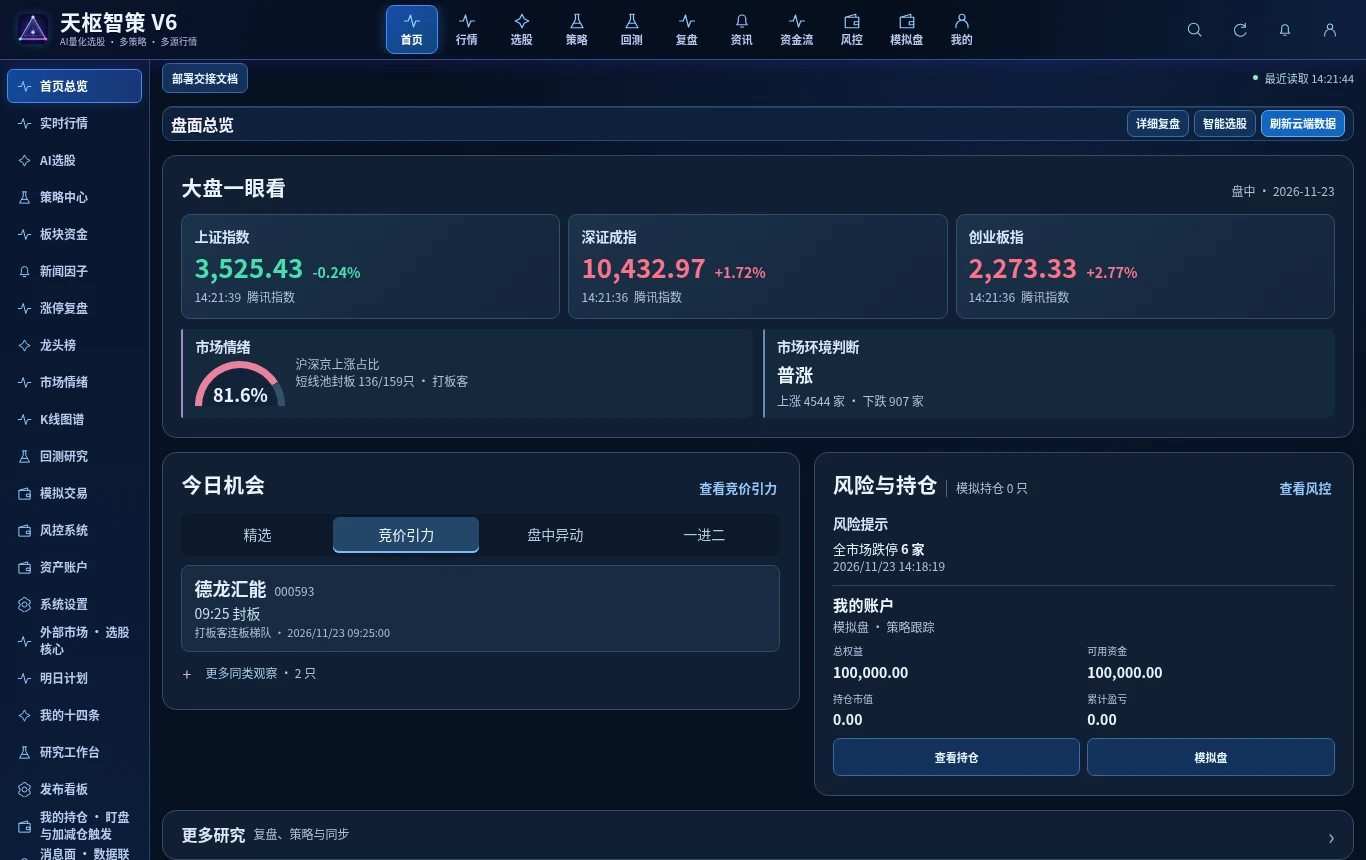
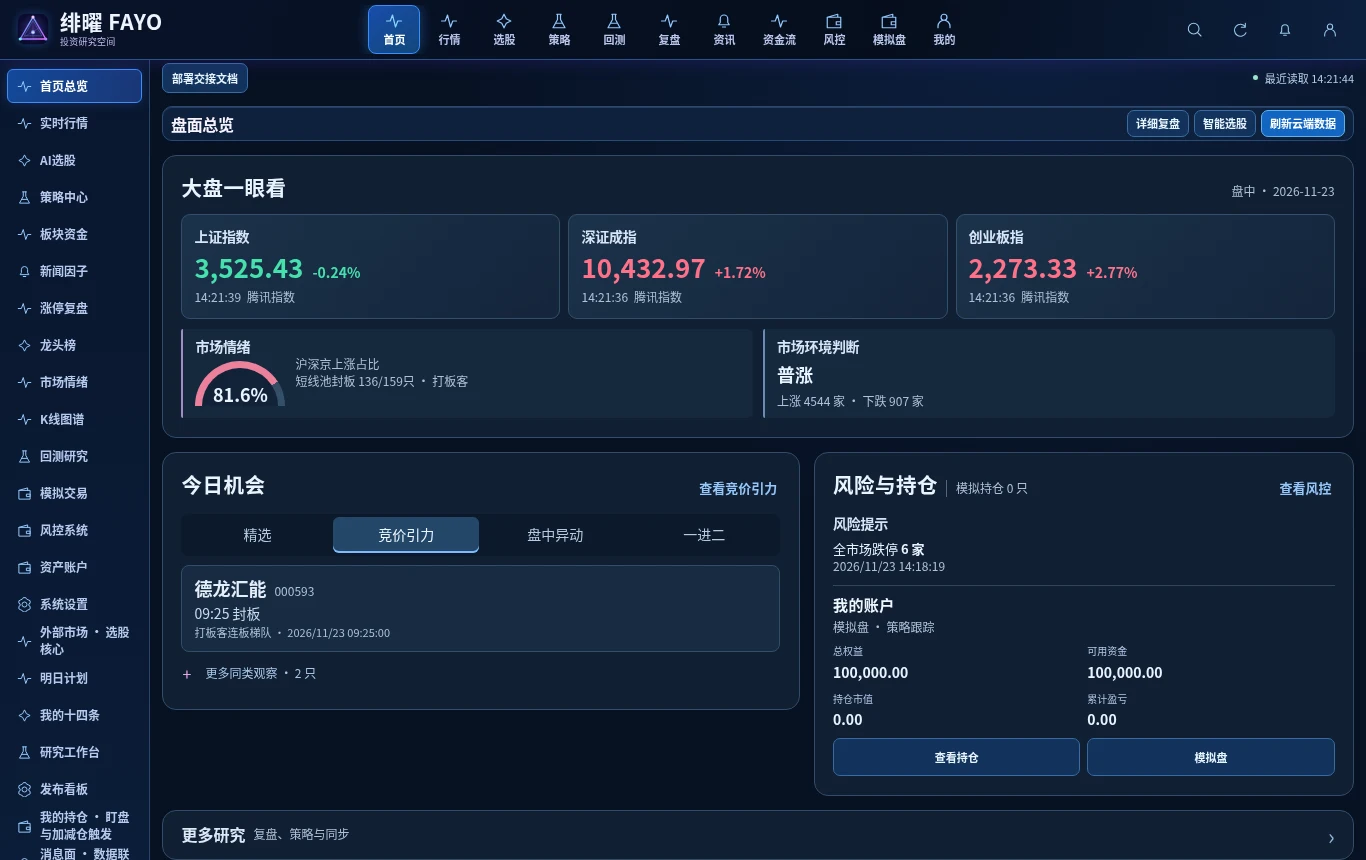
修复无报告时的首页板块交易日并统一绯曜运行时品牌

Changed region(s): [[0.246, 0.0, 0.7072, 0.0605], [0.0307, 0.0, 0.1537, 0.0605]]

diff --git a/V6_BO/public/nova/terminal-workbench.js b/V6_BO/public/nova/terminal-workbench.js
@@ -50,26 +50,60 @@ function referenceLinks(items,ctx,className) {
  return h('nav',{class:className,'aria-label':'常用研究入口'},items.map(([label,view,sub,symbol])=>
   button(h('span',{},icon(symbol),h('span',{},label)),()=>ctx.navigate(view,sub),'secondary')));
 }
+// The reference day selects a homepage period. A panel must still prove its own data day.
+function firstDay(...values){
+ for(const value of values){const day=reviewDate(value);if(day)return day;}
+ return null;
+}
+function poolSourceDay(state){
+ if(state.ztDayProbed===false)return null;
+ const nested=reviewDate(state.ztPool?.day),field=reviewDate(state.snapshotFieldDays?.ztPool);
+ if(nested&&field&&nested!==field)return null;
+ return nested||field||reviewDate(state.ztDay);
+}
+function homeReferenceDay(state){
+ return firstDay(state.review?.date,poolSourceDay(state),state.snapshotFieldDays?.dashboard,state.dashboard?.snapshotDay,state.snapshotDay);
+}
 function renderPanels(state,summary,reviewDay,ctx,compact) {
  const marketDay=reviewDate(state.snapshotFieldDays?.dashboard||state.dashboard?.snapshotDay||state.snapshotDay);
- const mainline=section(panelTitle('市场主线排行','pulse'),'仅按当前复盘明细的题材归组',
-  summary.groups.length?
+ const roles=Array.isArray(state.ztBySector)?state.ztBySector.filter(g=>g&&typeof g.sector==='string'&&g.sector.trim()):[];
+ const roleDay=firstDay(state.snapshotFieldDays?.ztBySector,state.ztDayProbed===false?null:state.ztDay);
+ let roleRows=reviewDay&&roleDay===reviewDay?roles:[];
+ let categorySource='按源端题材与角色分类',fromPool=false;
+ if(compact&&!roleRows.length&&reviewDay&&poolSourceDay(state)===reviewDay){
+  const digest=Array.isArray(state.ztPool?.top);
+  const entries=digest?state.ztPool.top:Array.isArray(state.ztPool)?state.ztPool:[];
+  const rows=entries.filter(r=>r&&[r.tradeDate,r.sourceTradeDate,r.poolDay,r.poolEvidence?.tradeDate]
+   .every(date=>!date||reviewDate(date)===reviewDay));
+  roleRows=summarizeReview({items:rows}).groups.map(g=>({sector:g.name,count:g.count,stocks:g.items}));
+  fromPool=roleRows.length>0;
+  if(fromPool)categorySource=digest?'速览涨停池节选':'原始涨停池明细';
+ }
+ let groups=compact&&!reviewDate(state.review?.date)?[]:summary.groups;
+ let groupSource='仅按当前复盘明细的题材归组';
+ if(compact&&!groups.length&&roleRows.length){
+  groups=roleRows.filter(g=>g.sector&&Number.isSafeInteger(g.count)&&g.count>0).map(g=>({
+   name:g.sector,count:g.count,highest:Math.max(0,...(g.stocks||[]).filter(r=>!r.strong)
+    .map(r=>r.lb??r.limitUpCount).filter(n=>Number.isSafeInteger(n)&&n>0))
+  })).sort((a,b)=>b.count-a.count||b.highest-a.highest||a.name.localeCompare(b.name,'zh-CN'));
+  groupSource=fromPool?categorySource:'同日涨停板块分类';
+ }
+ const mainline=section(panelTitle('市场主线排行','pulse'),[groupSource,reviewDay].filter(Boolean).join(' · '),
+  groups.length?
    h('div',{class:'fy-terminal-lines'},
     h('div',{class:'fy-reference-rank-head','aria-hidden':'true'},['排名','题材','涨停样本','最高板'].map(label=>h('small',{},label))),
-    summary.groups.slice(0,5).map((g,i)=>
+    groups.slice(0,5).map((g,i)=>
     h('div',{class:'fy-terminal-line fy-reference-ranked'},h('b',{class:'fy-reference-rank'},i+1),
      h('strong',{},g.name),h('span',{},g.count+' 只'),h('small',{},g.highest?g.highest+' 板':'高度未知')))):
    empty('缺少复盘板块证据','保留未知，不根据股票名称猜测所属题材。'),
   moduleButton('查看完整主线','pulse','review-details',ctx));
- const roles=Array.isArray(state.ztBySector)?state.ztBySector:[];
- const roleDay=reviewDate(state.snapshotFieldDays?.ztBySector||state.ztDay);
- const roleRows=reviewDay&&roleDay===reviewDay?roles.slice(0,5):[];
- const roleItems=roleRows.map(group=>{
-  const rolesByCode=sectorRoles(state,reviewDay,group.sector);
+ const roleItems=roleRows.slice(0,5).map(group=>{
+  const rolesByCode=fromPool?null:sectorRoles(state,reviewDay,group.sector);
   const members=(Array.isArray(group.stocks)?group.stocks:[]).slice(0,4).map(row=>{
-   const info=rolesByCode.get(row.code)||recordedRole(row,group.sector);
+   const info=rolesByCode?.get(row.code)||recordedRole(row,group.sector);
    const attrs={class:'fy-terminal-chip',title:info?.evidence};
-   const parts=[row.name||row.code,roleBadge(info)||((row.lb??row.level)>0?h('small',{},(row.lb??row.level)+'板'):null)];
+   const height=row.lb??row.level??row.limitUpCount;
+   const parts=[row.name||row.code,roleBadge(info)||(height>0?h('small',{},height+'板'):null)];
    return row.code?h('button',{...attrs,type:'button',onClick:()=>ctx.selectStock(row.code,{...row,sector:group.sector,poolDay:reviewDay})},...parts):h('span',attrs,...parts);
   });
   return h('div',{class:'fy-terminal-sector'},
@@ -79,9 +113,9 @@ function renderPanels(state,summary,reviewDay,ctx,compact) {
    h('div',{class:'fy-terminal-chips'},members));
  });
  const board=section(panelTitle('涨停板 · 板块分类','spark'),
-  '按源端题材与角色分类',
+  [categorySource,roleItems.length?reviewDay:roleDay].filter(Boolean).join(' · '),
   roleItems.length?h('div',{class:'fy-terminal-lines'},
-   h('div',{class:'fy-reference-role-legend','aria-label':'题材角色'},[['leader','龙头'],['deputy','龙二'],['mid','中军'],['follow','跟风']].map(([role,label])=>
+   fromPool?null:h('div',{class:'fy-reference-role-legend','aria-label':'题材角色'},[['leader','龙头'],['deputy','龙二'],['mid','中军'],['follow','跟风']].map(([role,label])=>
     roleBadge({key:role,label,evidence:'板块角色'}))),roleItems):
    empty('没有可核验的同日板块分类','本次复盘 '+(reviewDay||'日期未知')+
     '，板块分类 '+(roleDay||'日期未知')+'；日期不一致时不混用。'),
@@ -114,7 +148,7 @@ function renderPanels(state,summary,reviewDay,ctx,compact) {
     empty('尚无单位明确的板块资金数据','原资金模块可能有其他单位或缺失项，请核验数据来源与字段。'),
   moduleButton('查看资金证据','pulse','sectors',ctx));
  return h('div',{class:'fy-terminal-panels'},
-  compact&&!summary.groups.length?homeEmpty('市场主线','当期无已核对的题材',mainline):mainline,
+  compact&&!groups.length?homeEmpty('市场主线','当期无已核对的题材',mainline):mainline,
   compact&&!roleItems.length?homeEmpty('涨停板分类','当期无同日板块记录',board):board,
   compact&&!capital.length?homeEmpty('板块资金排行','当期无同日金额记录',flows):flows);
 }
@@ -270,7 +304,7 @@ export function renderTerminalOverview(ctx,{reviewOnly=false}={}) {
  signalPanel.classList.add('fy-reference-signal');
  let flowMode='in';
  const flowButtons=['in','out'].map((mode,i)=>button(i===0?'资金流入榜':'资金流出榜',()=>{
-  flowMode=mode;paintFunds(ctx.state||{},reviewDate(ctx.state?.review?.date));
+  flowMode=mode;paintFunds(ctx.state||{},reviewOnly?reviewDate(ctx.state?.review?.date):homeReferenceDay(ctx.state||{}));
  },'secondary'));
  const fundsPanel=section(panelTitle('板块资金流向','assets'),'',h('div',{class:'fy-reference-flow-switch','aria-label':'资金排名方向'},flowButtons),fundsContent,
   moduleButton('查看全部资金','pulse','sectors',ctx));
@@ -355,7 +389,8 @@ export function renderTerminalOverview(ctx,{reviewOnly=false}={}) {
   // Focused elements are not replaced while a keyboard user is interacting with them.
 
   const state=ctx.state||{},review=state.review,summary=summarizeReview(review),coverage=reviewCoverage(review);
-  const day=reviewDate(review?.date),source=coverage.source,reported=valid(review?.ztN)?review.ztN:null;
+  const day=reviewDate(review?.date),referenceDay=home?homeReferenceDay(state):day;
+  const source=coverage.source,reported=valid(review?.ztN)?review.ztN:null;
   const marketDay=reviewDate(state.snapshotFieldDays?.dashboard||state.dashboard?.snapshotDay||state.snapshotDay);
   const previousOpen=!!recoveryDetails?.open;
   recoveryDetails=recoveryDisclosure(state);
@@ -365,7 +400,7 @@ export function renderTerminalOverview(ctx,{reviewOnly=false}={}) {
    h('div',{},h('dt',{},'当前会话'),h('dd',{},ctx.role==='edit'?'编辑':'只读'))));
   recoveryDetails=syncContent.firstElementChild;
   updateReadout(status,
-   ...(day?[h('strong',{},'原始复盘日期：'+day)]:[]),
+   ...(day?[h('strong',{},'原始复盘日期：'+day)]:referenceDay?[h('strong',{},'盘面参考交易日 '+referenceDay)]:[]),
    ...(marketDay?[h('span',{},'大盘快照：'+marketDay)]:[]),
    h('span',{},source?'源端 '+number(source.reportedCount)+' 只 · 实收 '+number(source.returnedCount)+' 条 · 明细 '+number(coverage.analyzed)+' 只':reported!==null?'报告自述总数 '+number(reported)+' 只（未完成源端核验） · 明细 '+number(coverage.analyzed)+' 只':review?'复盘明细 '+number(coverage.analyzed)+' 只':''),
    h('span',{class:'fy-terminal-evidence-tag'},state.trading===false?'最近交易日快照 · 非实时交易信号':'每项仍需核对原始时点'));
@@ -436,7 +471,7 @@ export function renderTerminalOverview(ctx,{reviewOnly=false}={}) {
   for(const d of signalContent.querySelectorAll('details'))if(expanded.has(d.firstElementChild?.textContent))d.open=true;
  }
  signalPanel.hidden=!reasonList&&!distribution&&upRatio===null&&!classified&&!source&&!observations.length&&!scopes;
-  paintFunds(state,day);
+  paintFunds(state,referenceDay);
   const good=new Set(Array.isArray(state.goodNews?.items)?state.goodNews.items:[]);
   const bad=new Set(Array.isArray(state.badNews?.items)?state.badNews.items:[]);
   const primaryNews=newsRows(state,'news');
@@ -525,7 +560,7 @@ export function renderTerminalOverview(ctx,{reviewOnly=false}={}) {
     empty('暂无逐股决策证据','缺失数据不意味着无风险，也不能据此买入或卖出。'),
    h('p',{class:'fy-terminal-hint'},digest.note),
    moduleButton('查看完整策略研究','lab','desk',ctx));
-  updateReadout(panelsHost,renderPanels(state,summary,day,ctx,!!home));
+  updateReadout(panelsHost,renderPanels(state,summary,referenceDay,ctx,!!home));
   paintReview(summary);
   const picks=selectResearchPicks(state);
   if(home){
@@ -547,7 +582,7 @@ function renderReviewWorkspace(ctx) {
  const details=view.querySelector('.fy-terminal-review'),quick=view.querySelector('.fy-terminal-quick');
  const preview=details.querySelector('.fy-reference-home-details');
  preview.replaceWith(preview.querySelector('.fy-terminal-review-list'));
- title.querySelector('.fy-terminal-eyebrow').textContent='天枢智策 V6 / DAILY REVIEW';
+ title.querySelector('.fy-terminal-eyebrow').textContent='绯曜 FAYO / DAILY REVIEW';
  title.querySelector('h1').textContent='复盘资料与研究入口';
  title.querySelector('.fy-terminal-actions').replaceChildren(
   moduleButton('查看完整原始报告','pulse','review-details',ctx),

diff --git a/V6_BO/public/nova/market.js b/V6_BO/public/nova/market.js
@@ -328,6 +328,13 @@ export function renderMarket(route,ctx) {
  if(sub==='auction-review') {
   const code=h('input',{name:'code',inputmode:'numeric',pattern:'[0-9]{6}',placeholder:'六位股票代码',value:ctx.stock||'',required:true});
   const date=h('input',{name:'date',type:'date',value:closeSessionDay(ctx.state||{})||reviewDate(ctx.state?.auction?.date)||''}),output=h('div'),archive=h('div');
+  const logButton=button('读取最近竞价流水',async()=>{
+   if(logButton.disabled)return;
+   logButton.disabled=true;logButton.textContent='正在读取竞价流水…';
+   try{const result=await ctx.api('/api/auction-log?n=80',{signal:ctx.signal});if(!ctx.signal.aborted)output.replaceChildren(renderEvidence(result));}
+   catch(error){if(!ctx.signal.aborted)ctx.notify(error.message,'error');}
+   finally{logButton.disabled=false;logButton.textContent='读取最近竞价流水';}
+  });
   const paintAuction=()=>{
    const state=ctx.state||{},card=state.closeSession?.cards?.auction,items=rowsFrom(card?.items);
    const live=state.auction;
@@ -338,7 +345,7 @@ export function renderMarket(route,ctx) {
     opening?[]:[h('p',{class:'fy-muted'},'正在读取当日竞价流水。')]));
   };
   paintAuction();ctx.onState?.(paintAuction);
-  view.append(section('开盘前发生了什么','竞价原始记录与逐股复盘',archive,h('form',{class:'fy-form',onSubmit:async e=>{e.preventDefault();try{const q=new URLSearchParams({code:code.value,date:date.value});const r=await ctx.api('/api/auction-review?'+q,{signal:ctx.signal});output.replaceChildren(renderEvidence(r));}catch(error){ctx.notify(error.message,'error');}}},h('div',{class:'fy-grid two'},field('股票代码',code),field('交易日',date)),h('button',{type:'submit',class:'fy-button primary'},'读取竞价复盘')),button('读取最近竞价流水',async()=>{try{const r=await ctx.api('/api/auction-log?n=80',{signal:ctx.signal});output.replaceChildren(renderEvidence(r));}catch(error){ctx.notify(error.message,'error');}}),output));
+  view.append(section('开盘前发生了什么','竞价原始记录与逐股复盘',archive,h('form',{class:'fy-form',onSubmit:async e=>{e.preventDefault();try{const q=new URLSearchParams({code:code.value,date:date.value});const r=await ctx.api('/api/auction-review?'+q,{signal:ctx.signal});output.replaceChildren(renderEvidence(r));}catch(error){ctx.notify(error.message,'error');}}},h('div',{class:'fy-grid two'},field('股票代码',code),field('交易日',date)),h('button',{type:'submit',class:'fy-button primary'},'读取竞价复盘')),logButton,output));
   return view;
  }
  const datasetKeys=sub==='sectors'?[['板块强度','sectors'],['涨停题材','ztBySector'],['市场主线','mainline'],['板块联动','extLink']]:sub==='global'?[['全球市场','global'],['外部资金与商品','external'],['外围预选','preselect'],['资金异动','bigMoney']]:sub==='plans'?[['下一交易日计划','nextplan'],['十四条判定','myrules'],['启动前埋伏','pre'],['补涨线索','buzhang']]:[['复盘','review'],['历史学习','learn'],['学习记录','learnHistory'],['宽度与纪律','breadth']];
@@ -355,9 +362,9 @@ export function renderMarket(route,ctx) {
   ctx.onState?.(()=>updateReadout(radar,marketOverviewCards(ctx.state||{})));
   const status=h('small',{class:'fy-muted',role:'status'}),receipt=h('div');
   const details=h('details',{class:'fy-details'},h('summary',{},'查看四大指数原始回执'),status,receipt);
-  let reading=false;
+  let reading=false,lastReceiptAt=-Infinity;
   details.addEventListener('toggle',async()=>{
-   if(!details.open||reading)return;
+   if(!details.open||reading||performance.now()-lastReceiptAt<5000)return;
    reading=true;status.textContent='正在读取指数回执…';
    try{
     const result=await ctx.api('/api/reference-indexes',{signal:ctx.signal});
@@ -369,6 +376,7 @@ export function renderMarket(route,ctx) {
      Number.isFinite(row.previousClose)?h('small',{},'昨收 '+format(row.previousClose)):null,
      h('small',{},'源端 '+dateTime(quoteAt(row)))));
     receipt.replaceChildren(...cards,h('details',{class:'fy-details'},h('summary',{},'查看原始字段'),renderEvidence(result)));
+    if(quotes.length)lastReceiptAt=performance.now();
     status.textContent=[indexProvider(result.source),quotes.length+' 个指数有原始报价',result.asOf?'取回于 '+dateTime(result.asOf):''].filter(Boolean).join(' · ');
    }catch(error){if(!ctx.signal.aborted)status.textContent=error.message;}
    finally{reading=false;}

diff --git a/V6_BO/tests/v6-terminal-workbench.test.js b/V6_BO/tests/v6-terminal-workbench.test.js
@@ -302,3 +302,30 @@ test('decision panel shows real dated good/bad evidence, watch counts and no aut
  assert.ok(ctx.calls.every(call=>!['POST','PUT','DELETE'].includes(call.options?.method)));
  ctx.controller.abort();
 });
+
+test('homepage dates compact and full sector evidence without dating an undated report',async()=>{
+ dom();const {renderTerminalOverview}=await api;
+ const row={code:'000001',name:'已返回标的',sector:'源端板块',limitUpCount:2};
+ const digest={trading:true,snapshotDay:'20261123',dashboard:{snapshotDay:'20261123'},sectorsDay:'20261123',
+  sectors:[{name:'同日资金',netInflowYuan:200000000}],ztPool:{day:'20261123',count:95,top:[row,row]}};
+ const check=(s,assertions)=>{
+  const ctx=context(s),view=renderTerminalOverview(ctx);
+  try{assertions(textOf(locate(view,n=>n?.className==='fy-terminal-context')),textOf(locate(view,n=>n?.className==='fy-terminal-provenance')));}
+  finally{ctx.controller.abort();}
+ };
+ check(digest,(cards,status)=>{
+  assert.match(cards,/速览涨停池节选 · 2026-11-23/);assert.match(cards,/源端板块\s+1 只/);
+  assert.match(cards,/已返回标的/);assert.match(cards,/同日资金/);assert.match(cards,/2\.00 亿/);
+  assert.doesNotMatch(cards,/日期未知|95 只/);assert.match(status,/盘面参考交易日 2026-11-23/);assert.doesNotMatch(status,/原始复盘日期/);
+ });
+ const full={...digest,ztPool:[],ztDay:'20261123',ztBySector:[{sector:'已核分类',count:2,stocks:[{...row,lb:2}]}]};
+ check(full,cards=>{assert.match(cards,/同日涨停板块分类 · 2026-11-23/);assert.match(cards,/已核分类\s+2 只/);});
+ check({...full,ztDay:'',snapshotFieldDays:{ztBySector:'20261123'}},cards=>assert.match(cards,/已核分类/));
+ check({...full,review:{date:'20261120',items:[]}},cards=>assert.doesNotMatch(cards,/已核分类|同日资金|2\.00 亿/));
+ check({...full,ztDay:'',snapshotFieldDays:{ztBySector:'20261120'},sectorsDay:'20261120'},cards=>{
+  assert.doesNotMatch(cards,/已核分类|同日资金|2\.00 亿/);assert.match(cards,/2026-11-23，板块分类 2026-11-20/);
+ });
+ check({...digest,ztPool:{top:[row]},review:{items:[row]}},cards=>assert.doesNotMatch(cards,/已返回标的|源端板块/));
+ check({...digest,ztPool:{day:'20261123',top:[{...row,sourceTradeDate:'20261120'}]}},cards=>assert.doesNotMatch(cards,/已返回标的|源端板块/));
+ check({...digest,snapshotFieldDays:{ztPool:'20261120'}},cards=>assert.doesNotMatch(cards,/已返回标的|源端板块/));
+});

diff --git a/V6_BO/public/nova/app.js b/V6_BO/public/nova/app.js
@@ -141,7 +141,7 @@ function revealCurrentTab(nav) {
  else if(item.right>right)nav.scrollLeft+=item.right-right+4;
 }
 function createFrame() {
- const brand=h('a',{class:'fy-brand',href:'#/pulse/overview','aria-label':'绯曜 FAYO 首页'},h('img',{src:'/nova/mark.svg',width:'40',height:'40',alt:''}),h('span',{},h('strong',{},'天枢智策 V6'),h('small',{},'AI量化选股 · 多策略 · 多源行情')));
+ const brand=h('a',{class:'fy-brand',href:'#/pulse/overview','aria-label':'绯曜 FAYO 首页'},h('img',{src:'/nova/mark.svg',width:'40',height:'40',alt:''}),h('span',{},h('strong',{},'绯曜 FAYO'),h('small',{},'投资研究空间')));
  const nav=h('nav',{class:'fy-nav','aria-label':'主要工作空间'}),dock=h('nav',{class:'fy-dock','aria-label':'手机主要工作空间'});
  for(const[view,label,key]of MAIN){
   nav.append(h('button',{type:'button','data-fy-route':view,onClick:()=>navigate(view)},icon(key),h('span',{},label)));
@@ -203,7 +203,6 @@ async function renderRoute() {
   else node.removeAttribute('aria-current');
  });
  const destinations=WORKSPACE_ROUTES[workspace].filter(([, , ,access])=>access!=='edit'||role==='edit');
- const activeLabel=destinations.find(([,view,target])=>view===route.view&&target===sub)?.[0];
  workspaceNav.hidden=destinations.length<2;
  if(workspaceNav.dataset.workspace!==workspace){
   workspaceNav.dataset.workspace=workspace;
@@ -216,7 +215,7 @@ async function renderRoute() {
  }
  revealCurrentTab(frame.querySelector('.fy-reference-topnav'));
  revealCurrentTab(workspaceNav);
- document.title='天枢智策 V6 · '+(activeLabel||workspace);
+ document.title='绯曜 FAYO · 投资研究空间';
  window.scrollTo({top:0,behavior:'instant'});
  try {
   if(route.view==='pulse'&&(!route.sub||route.sub==='overview'))main.replaceChildren(renderTerminalOverview(ctx));

diff --git a/V6_BO/scripts/fayo-browser-check.js b/V6_BO/scripts/fayo-browser-check.js
@@ -358,6 +358,9 @@ const runChecks=async()=>{
    const streamRequest=page.waitForRequest(request=>new URL(request.url()).pathname==='/api/stream');
    await page.goto(origin+'/');
    await page.locator('.fy-header').waitFor({state:'visible'});
+   assert.equal(await page.title(),'绯曜 FAYO · 投资研究空间');
+   assert.equal(await page.locator('.fy-brand strong').innerText(),'绯曜 FAYO');
+   assert.equal(await page.locator('.fy-brand small').innerText(),'投资研究空间');
    await page.locator('.fy-home-opportunity .fy-home-stock').first().waitFor({state:'visible'});
    const deployment=page.getByRole('link',{name:'部署交接文档',exact:true});
    assert.equal(await deployment.getAttribute('href'),'https://github.com/solviq87-cpu/v6-stock-system/blob/dev/DEPLOYMENT.md');
@@ -630,6 +633,7 @@ const runChecks=async()=>{
    await navigate(page,'opportunities','quant');
    await page.waitForFunction(()=>document.querySelectorAll('.fy-pool-board .fy-stock-card').length===8);
    assert.equal(await page.locator('.fy-main h1').innerText(),'量化发现');
+   assert.equal(await page.title(),'绯曜 FAYO · 投资研究空间');
    if(width<=700){
     const positions=await page.getByRole('navigation',{name:'常用卡片'}).getByRole('button').evaluateAll(nodes=>nodes.map(node=>node.getBoundingClientRect().top));
     assert.ok(positions.length===4&&positions[0]===positions[1]&&positions[2]===positions[3]&&positions[0]<positions[2],'four mobile shortcuts fit into two rows');

diff --git a/V6_BO/public/sw.js b/V6_BO/public/sw.js
@@ -2,8 +2,8 @@
 // market prices must always come from the server, including after revocation.
 const APP_VER = '20261123ab';
 const CACHE_PREFIX = 'quant-dashboard-m-';
-const CACHE_NAME = CACHE_PREFIX + APP_VER + '-home-1';
-const PRECACHE = ['/', '/m', '/manifest.json', '/nova/mark.svg', '/nova/fayo.css?v=20261123ab-home1', '/nova/app.js?v=20261123ab-home1', '/nova/client.js', '/nova/ui.js', '/nova/market.js', '/nova/market-evidence.js', '/nova/review-pool.js', '/nova/terminal-workbench.js', '/nova/home-layout.js', '/nova/close-review.js', '/nova/tactics-view.js', '/nova/tactics.js',
+const CACHE_NAME = CACHE_PREFIX + APP_VER + '-home-2';
+const PRECACHE = ['/', '/m', '/manifest.json', '/nova/mark.svg', '/nova/fayo.css?v=20261123ab-home2', '/nova/app.js?v=20261123ab-home2', '/nova/client.js', '/nova/ui.js', '/nova/market.js', '/nova/market-evidence.js', '/nova/review-pool.js', '/nova/terminal-workbench.js', '/nova/home-layout.js', '/nova/close-review.js', '/nova/tactics-view.js', '/nova/tactics.js',
   '/nova/automatic-research.js', '/nova/stock-roles.js', '/nova/dabanke-view.js', '/nova/shortline/context.mjs'];
 
 self.addEventListener('install', event => {

diff --git a/V6_BO/public/nova/index.html b/V6_BO/public/nova/index.html
@@ -6,13 +6,13 @@
 <meta name="theme-color" content="#100917">
 <meta name="application-name" content="绯曜 FAYO">
 <meta name="application-version" content="20261123ab">
-<meta name="frontend-revision" content="home-20261123-1">
+<meta name="frontend-revision" content="home-20261123-2">
 <meta name="description" content="绯曜 FAYO，将市场脉冲、策略机会、研究证据与资产风险连接在同一工作空间。">
 <title>绯曜 FAYO · 投资研究空间</title>
 <link rel="icon" href="/nova/mark.svg" type="image/svg+xml">
 <link rel="manifest" href="/manifest.json">
-<link rel="stylesheet" href="/nova/fayo.css?v=20261123ab-home1">
-<script type="module" src="/nova/app.js?v=20261123ab-home1"></script>
+<link rel="stylesheet" href="/nova/fayo.css?v=20261123ab-home2">
+<script type="module" src="/nova/app.js?v=20261123ab-home2"></script>
 </head>
 <body>
 <div id="fayo-root"><div class="fy-boot"><img src="/nova/mark.svg" width="48" height="48" alt=""><strong>绯曜 FAYO</strong><span>正在连接你的研究空间…</span></div></div>

diff --git a/HANDOFF.md b/HANDOFF.md
@@ -9,16 +9,19 @@
 ```text
 请将 solviq87-cpu/v6-stock-system 的 dev 分支 PR #346 合并提交原地部署到现有 V6，记录完整 SHA。保留域名、端口、挂载卷及既有登录。先备份当前程序和配置。已有 20261123ab 实例可原子替换同一提交下的 V6_BO/public/nova/ 和 V6_BO/public/sw.js。从 20261123aa 升级请走现有完整 V6_BO 发布流程。
 
-部署后，用同一实例的已有权限打开电脑 / 和手机 /m。两端页面源代码中的 frontend-revision 应为 home-20261123-1，/api/lock/status 的 appVer 为 20261123ab。核对原顶栏名称、浏览器标题，以及首页的大盘一眼看、今日机会、风险与持仓。
+部署后，用同一实例的已有权限打开电脑 / 和手机 /m。两端页面源代码中的 frontend-revision 应为 home-20261123-2，/api/lock/status 的 appVer 为 20261123ab。核对两端顶栏“绯曜 FAYO”和“投资研究空间”，以及浏览器标题“绯曜 FAYO · 投资研究空间”。切换栏目后再核对一次标题。
 
-核对指数原始交易日、报价时刻及来源。在今日机会切换精选、竞价引力、盘中异动和一进二，等待下一次行情更新，核对选中的栏目与已展开的状态条。展开更多研究应能找到涨停复盘、36种选股策略、分环境战法绩效和多端同步。用只读身份核对资产可见范围。回报 SHA、前端修订号及两端结果。若验收失败，从升级前程序快照恢复整套前端文件和 sw.js。
+核对指数原始交易日、报价时刻及来源。在今日机会切换精选、竞价引力、盘中异动和一进二，等待下一次行情更新，核对选中的栏目与已展开的状态条。展开“更多研究”，确认市场主线、涨停板块分类及板块资金均显示各自原始交易日。没有复盘报告时，核对日期是否来自当期涨停池或行情快照。用只读身份核对资产可见范围。回报 SHA、前端修订号及两端结果。若验收失败，从升级前程序快照恢复整套前端文件和 sw.js。
 ```
 
-- 顶栏、浏览器标题和“盘面总览”沿用原文。电脑把今日机会与风险并排，手机按大盘、机会、风险顺序显示。盘初优先查看当日竞价，连续交易优先查看有回执的盘中异动，收盘优先查看当期精选。手动选择栏目后，行情刷新会保留选择。
+- 顶栏和浏览器标签统一使用绯曜 FAYO 品牌。电脑把今日机会与风险并排，手机按大盘、机会、风险顺序显示。盘初优先查看当日竞价，连续交易优先查看有回执的盘中异动，收盘优先查看当期精选。手动选择栏目后，行情刷新会保留选择。
+- 首页分别核对盘面参考日、分类来源日和资金来源日。完整状态支持涨停分类及其原交易日，速览支持嵌套的 `ztPool.day` 和 `top` 节选。只有快照日期时，有独立同日来源的记录可以展示。无日期的报告保留原状，旧日数据和单位未证实的金额继续过滤。
+- 在无复盘报告的隔离实例核验了 11 月 23 日的双端入口。完整状态返回 139 条涨停池记录，速览返回其中 8 条节选。两种响应都在首页展示了原日期和 5 组分类。该次板块资金接口没有返回板块金额，保留空态。带同日人民币金额及错日金额的回归用例分别验证了展示和拦截。[手机分类实图](V6_BO/docs/previews/sectors-20261123-mobile.webp) · [电脑分类实图](V6_BO/docs/previews/sectors-20261123-desktop.webp)
+- 竞价流水读取期间连续点击只发一次请求。指数原始回执 5 秒内重新展开复用已成功取得的回执。服务端竞价流水对最多 80 条记录逐条读取 K 线并计算次日结果，指数原始回执每次请求直接读取腾讯报价。隔离实例的空竞价流水耗时 12 毫秒，一次四指数请求耗时 3.70 秒。生产满载延迟需在目标实例测量。
 - 当前期间没有可核验记录时，情绪、精选、板块资金、市场主线和涨停分类等显示可展开的原因。收到符合原日期、单位及权限要求的数据后，页面会更新对应栏目。详细复盘保留原入口。
 - 视觉预览来自隔离 V6 实例于北京时间 11 月 23 日 14:21 读取的同一份盘中回执，包含原始腾讯指数和打板客 09:25 观察。账户金额属于该实例自带的空模拟账户。截图仅用于对照布局。[手机 390 × 844](V6_BO/docs/previews/home-20261123-mobile.webp) · [电脑 1366 × 860](V6_BO/docs/previews/home-20261123-desktop.webp)
 - 已用浏览器覆盖冷启动无记录、错日资金、晚到数据补齐、未来时点回执过滤和切换栏目后刷新。双端预览的上证报价时刻为 14:21:39，深成及创业板为 14:21:36。
-- 本次沿用服务版本 `20261123ab`，前端修订为 `home-20261123-1`。上一版程序的回滚点为 `0839d832025b9a9801c93b0f00accfb0a4c5595b`。目标节点由用户的部署软件切换，现场结果以登录后的双端读回为准。[本轮改动与检查](https://github.com/solviq87-cpu/v6-stock-system/pull/346) · [完整部署清单](DEPLOYMENT.md)
+- 本次沿用服务版本 `20261123ab`，前端修订为 `home-20261123-2`。修复前已备份前端提交 `fb337c615295d680bfddb846309f30bff9e9b423`。上一个已合并版本的回滚点为 `0839d832025b9a9801c93b0f00accfb0a4c5595b`。目标节点由用户的部署软件切换，现场结果以登录后的双端读回为准。[本轮改动与检查](https://github.com/solviq87-cpu/v6-stock-system/pull/346) · [完整部署清单](DEPLOYMENT.md)
 
 <!-- CURRENT_CHECKPOINT_END -->
 

diff --git a/DEPLOYMENT.md b/DEPLOYMENT.md
@@ -21,7 +21,7 @@
 
 已有实例可把整段升级要求直接粘贴给使用中的部署软件。[可复制的交接文本](HANDOFF.md#给部署软件的交接文本)
 
-本次完整应用版本为 `20261123ab`，首页前端修订为 `home-20261123-1`。部署同一提交下的 `V6_BO/server.js`、`V6_BO/em.js`、`V6_BO/src/` 和 `V6_BO/public/`，保留目标节点现有数据目录。生产状态以目标服务的应用版本、两个入口和登录后的 `/api/state` 实际读回为准。
+本次完整应用版本为 `20261123ab`，首页前端修订为 `home-20261123-2`。部署同一提交下的 `V6_BO/server.js`、`V6_BO/em.js`、`V6_BO/src/` 和 `V6_BO/public/`，保留目标节点现有数据目录。生产状态以目标服务的应用版本、两个入口和登录后的 `/api/state` 实际读回为准。
 
 电脑打开 `/`、手机打开 `/m`。休市时，首页、行情、股票池和涨停复盘使用服务端 `closeSession.day`。查看首页六卡、同花顺逐股原因、首板和二板观察清单；查看市场分布时核对沪深京有效行情数、范围和来源。正常交易时恢复现有行情更新，周末保留周五收盘，长假依交易日历回溯。完整运行环境和回滚沿用下方部署方式。
 
@@ -29,7 +29,7 @@
 
 ### 双端布局与刷新验收
 
-首页的顶栏名称和浏览器标题沿用原文。用已有权限打开电脑 `/` 和手机 `/m`，在 HTML 的 `meta[name="frontend-revision"]` 核对 `home-20261123-1`。电脑查看“大盘一眼看”下方并排的机会与风险，手机按三段顺序查看。空记录默认显示单行状态，点开可查看原因。有同日数据后自动展开对应内容。分环境绩效、36 种策略、多端同步与逐股复盘位于“更多研究”。[手机预览](V6_BO/docs/previews/home-20261123-mobile.webp) · [电脑预览](V6_BO/docs/previews/home-20261123-desktop.webp)
+首页和其他工作区的运行时浏览器标题均为“绯曜 FAYO · 投资研究空间”。两端顶栏分行显示同一品牌及副标题。用已有权限打开电脑 `/` 和手机 `/m`，在 HTML 的 `meta[name="frontend-revision"]` 核对 `home-20261123-2`。展开更多研究，在没有复盘报告的当日核对涨停分类的来源日期、市场主线的统计范围及板块资金的金额单位。电脑查看“大盘一眼看”下方并排的机会与风险，手机按三段顺序查看。空记录默认显示单行状态，点开可查看原因。有同日数据后自动展开对应内容。分环境绩效、36 种策略、多端同步与逐股复盘位于“更多研究”。[手机预览](V6_BO/docs/previews/home-20261123-mobile.webp) · [电脑预览](V6_BO/docs/previews/home-20261123-desktop.webp)
 
 直接打开电脑 `/#/lab/shortline-pressure` 或手机 `/m#/lab/shortline-pressure`，核对当前工作区和末端的二级标签都在导航栏可见范围内。手机从“我的”返回首页，当前栏应随之回到“首页总览”。窄屏首页三大指数同行，市场情绪与环境判断并列，风险提示通栏展示。
 
@@ -111,7 +111,7 @@ HOST=127.0.0.1 PORT=8787 npm start
 
 | 时间与版本 | 本轮变更和验证 | 部署及回滚状态 |
 | --- | --- | --- |
-| 2026-11-23 · 首页三段布局 `home-20261123-1` | 两端复用原行情回执。盘中数据变化保留已选机会和展开项。完整交接及原始回执预览均在仓库内。[改动与验收 #346](https://github.com/solviq87-cpu/v6-stock-system/pull/346) | 目标节点部署后同时核对前端修订与 `appVer 20261123ab`。 |
+| 2026-11-23 · 首页三段布局 `home-20261123-2` | 两端复用原行情回执。盘中数据变化保留已选机会和展开项。完整交接及原始回执预览均在仓库内。[改动与验收 #346](https://github.com/solviq87-cpu/v6-stock-system/pull/346) | 目标节点部署后同时核对前端修订与 `appVer 20261123ab`。 |
 | 2026-11-23 · 双端布局与指数回执 `20261123ab` | 手机与电脑能直接定位到当前标签。窄屏首页三大指数同排，风险提示通栏。板块资金的行情更新保留已展开的指数原始回执。[改动与验收 #345](https://github.com/solviq87-cpu/v6-stock-system/pull/345) | 目标节点按顶部交接步骤验收，上一版为 `20261123aa`。 |
 | 2026-11-22 · 上线前优化与联动 `20261122av` | 空库初始化、同花顺导入、独立账户、题材梯队、信号防抖、收益分布、A/B 与成本压力、日志导出、审批与词典均由原生 V6 入口贯通。390px 和 1366px 已从临时真实服务走通载入演示、导出 ZIP、切换账户和重置保护。 | 部署完整后台与双端页面。上一版源码为 `a73dc57514b18972887165a7e9aa831b3997b177`。目标主机运行版本、设备推送到达与真实样本绩效须分别现场核实。 |
 | 2026-11-22 · 多源盘面恢复 `20261122au` | 在已合入的四模块版本 `dev@f67d5c7` 上补充境内指数、量价、分时、宽度和三交易日情绪来源。主实例启动和定时轮询会自动运行，电脑和手机可查询同一盘面采集进度。[代码与验收 #338](https://github.com/solviq87-cpu/v6-stock-system/pull/338) | 发布需要完整 V6 前后端。原有研究档案兼容；生产部署后核对实际线路、交易日和源端覆盖。 |
